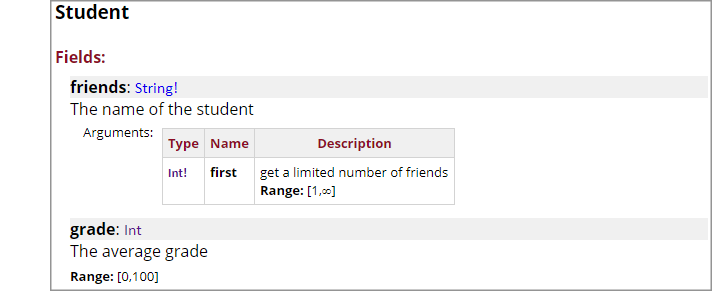
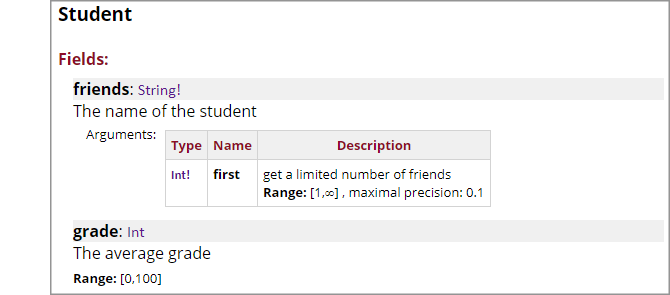
Add maximal precision to range directive

diff --git a/README.md b/README.md
@@ -100,10 +100,12 @@ Result: <br/>
 ![Deprecated screenshot](/docs/screenshot-deprecated.png)
 ### The `@range` directive
 ```GraphQL
-directive @range(min: Float, max: Float) on 
+directive @range(min: Float, max: Float, maxPrecision: Float) on 
     FIELD_DEFINITION|ARGUMENT_DEFINITION|INPUT_FIELD_DEFINITION
 ```
 Used to describe the valid range of a numerical field or argument. If `min` is not provided, it is considered to be -∞ , if `max` is not defined it is considered to be ∞. Both `min` and `max` are regarded as inclusive.
+
+The maximal precision is a number that represents the smallest step acceptable. Typically it will be in a form such as 0.01
 
 <small> ***Note**: some GraphQL libraries do not support custom directives. **GraphQL API Page Generator** will still process this directive wherever it appears, given the schema file. However, this directive will not appear if schema is obtained via introspection.* </small>
 
